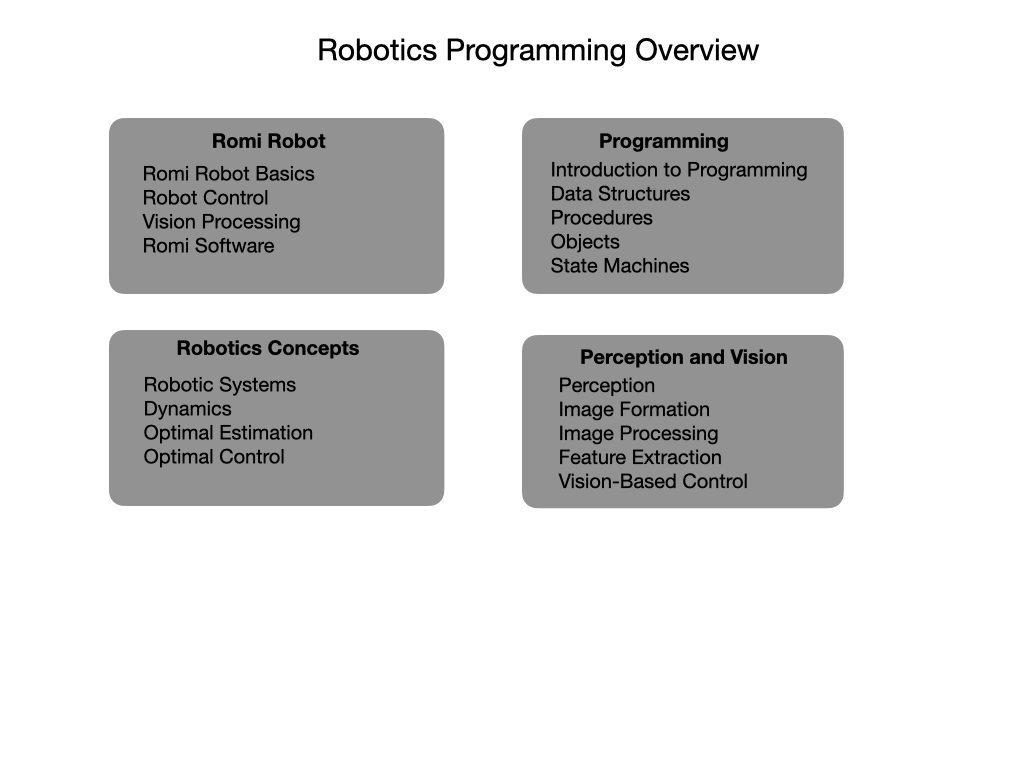
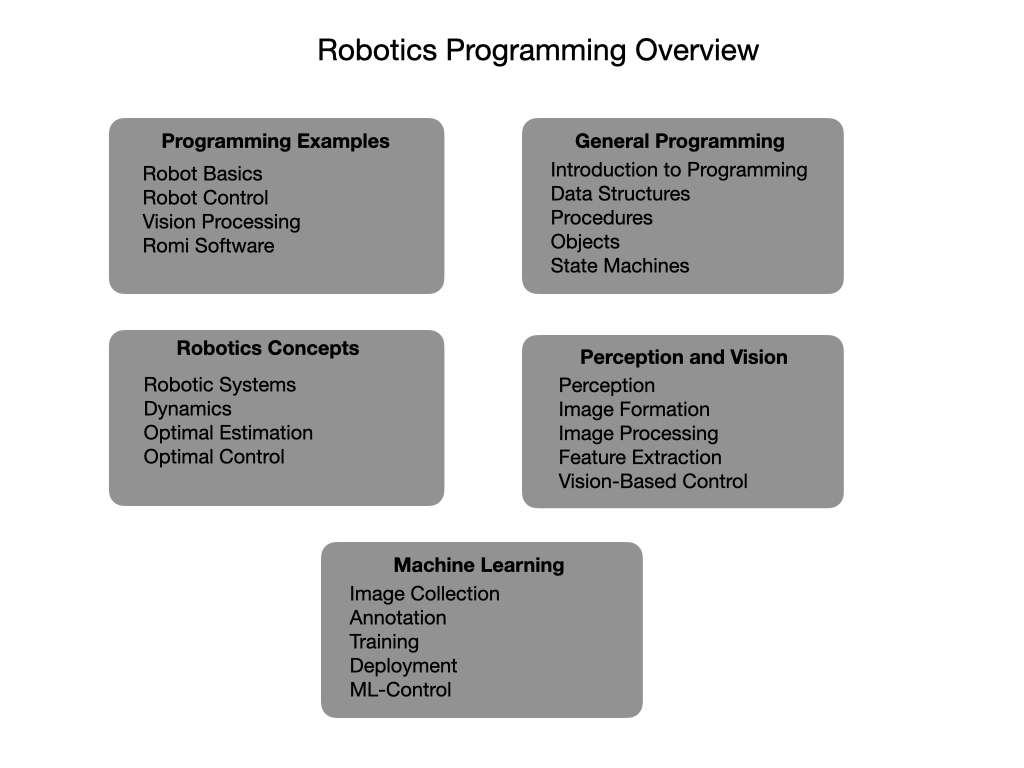
Added Machine Learning template

Changed region(s): [[0.3125, 0.6875, 0.625, 0.9375], [0.1562, 0.1562, 0.375, 0.25], [0.5625, 0.1562, 0.7812, 0.2188]]

diff --git a/docs/Romi/SC/romiCommands.md b/docs/Romi/SC/romiCommands.md
@@ -75,6 +75,37 @@ The `setDefaultCommand()` method sets the default Command of the subsystem. The 
 
     m_drivetrain.setDefaultCommand(getArcadeDriveCommand());
 
+## Command Groups
+Simple commands can be composed into [Command Groups](https://docs.wpilib.org/en/latest/docs/software/commandbased/command-groups.html) to accomplish more-complicated tasks. There are several ways in which Command Groups can be composed, as shown the documentation.  We'll look at a full example of a **Sequential** Command Group from the Romi sample code.
+
+### The AutonomousDistance Command
+The **AutonomousDistance** command is used to drive forward, turn 180 degrees, drive back, and turn another 180 degrees, hopefully ending up exactly where we started.  That's four commands executed one after another and is a prime candidate for a **SequentialCommandGroup**.
+We'll be using the **Drivetrain** subsystem in this command so that needs to be imported together with the SequentialCommandGroup library.
+
+The four commands are composed in the class constructor using the `addCommands()` method.  The four command are specified using just two procedures since these procedures were parameterized.  The commands are listed in the order in which we would like them to run.
+
+    package frc.robot.commands;
+    import frc.robot.subsystems.Drivetrain;
+    import edu.wpi.first.wpilibj2.command.SequentialCommandGroup;
+
+    public class AutonomousDistance extends SequentialCommandGroup {
+      /**
+      * Creates a new Autonomous Drive based on distance. This will drive out for a specified distance,
+      * turn around and drive back.
+      *
+      * @param drivetrain The drivetrain subsystem on which this command will run
+      */
+      public AutonomousDistance(Drivetrain drivetrain) {
+        addCommands(
+            new DriveDistance(-0.5, 10, drivetrain),
+            new TurnDegrees(-0.5, 180, drivetrain),
+            new DriveDistance(-0.5, 10, drivetrain),
+            new TurnDegrees(0.5, 180, drivetrain));
+      }
+    }
+
+### Change Motor Direction
+We'd like our Romi going in a different direction from that specified in the *romiReference* example.  So switch the first `DriveDistance()` parameter from -0.5 to 0.5.
 
 ## Viewing the Robot Pose
 As the robot drives around it might be useful to view its position and orientation on in the Simulator.  We looked at that module previously so you ready're to go onto the [Pose Estimation](../../Concepts/OptimalEstimation/poseEstimation.md) module.  There are a couple of classes that need to be implemented to do this so review that module next.
@@ -126,11 +157,14 @@ Update the *ArcadeDrive* command to use the new `rateLimitedArcadeDrive()` metho
         m_drivetrain.rateLimitedArcadeDrive(m_xaxisSpeedSupplier.get(), m_zaxisRotateSupplier.get());
     }
 
+
 ## References
 
 - FRC Documentation - [Command Based Programming](https://docs.wpilib.org/en/latest/docs/software/commandbased/index.html)
 
 - FRC Documentation - [The Command Scheduler](https://docs.wpilib.org/en/latest/docs/software/commandbased/command-scheduler.html)
+
+- FRC Documentation - [Command Groups](https://docs.wpilib.org/en/latest/docs/software/commandbased/command-groups.html)
 
 - [Amazon Example](https://s3.amazonaws.com/screensteps_live/exported/Wpilib/2078/2286/Command_based_programming.pdf?1478686718)
 

diff --git a/docs/Romi/Vision/romiBasicVision.md b/docs/Romi/Vision/romiBasicVision.md
@@ -46,7 +46,7 @@ Explain how the program works...It makes use of the [Camera Server](https://docs
 ## <a name="upload"></a>Upload Python Program
 You can't run the camera server code on your laptop since it's not currently supported.  You have to upload it to the Raspberry Pi to test it. In a terminal (Powershell):
 
-1. `cd ~/Documents/romi-examples/BasicVision/Vision`.  If you opened up a terminal from VSCode then you should only need to `cd Vision`.
+1. `cd ~/Documents/RomiExamples/BasicVision/Vision`.  If you opened up a terminal from VSCode then you should only need to `cd Vision`.
 2. The python program has multiple files so you need to upload them all.  This is done with a zip file.  Run `python build.py` to build the zip file.  Depending on how Python is installed you may have to type `python3`.  The zip file will be called `wpilib.tar.gz`.
 3. On the Romi WPILibPi.local webpage. Go to **Application**.
 4. Put Raspberry Pi file system into *Writable* mode.
@@ -76,7 +76,7 @@ Note: Shuffleboard uses the Network Tables to display the camera data so your ja
 An alternative way to view the overlayed camera stream is to bring it up in a browser.  The URL is `wpilibpi.local:1182/stream.mjpg`.  The port of the original stream is *1181*.
 
 ## Notes on Restarting the Romi
-When you first turn the Romi it will restart with the program that you last uploaded.  So if that's what you require then there's no action neccesary. Dispite this, the **Vision Application Configuration** panel will default to the *Custom* application, even though the *Custom* application is not running. 
+When you first turn the Romi it will restart with the program that you last uploaded.  So if that's what you require then there's no action neccesary. Despite this, the **Vision Application Configuration** panel will default to the *Custom* application, even though the *Custom* application is not running. 
 
 If you've switched the application to **Built-in multi-camera streaming** then you will have to upload your python program again, since it will try to call `uploaded.py` instead of your `multiCameraServer.py` program. The the `runCamera` file keeps getting overwritten so you cannot just upload a new `multiCameraServer.py` file from the **Vision Application Configuration** panel.  You have to upload your tar file from the **File Upload** panel.
 

diff --git a/docs/MachineLearning/MLIndex.md b/docs/MachineLearning/MLIndex.md
@@ -1,0 +1,22 @@
+# Introduction to Machine Learning
+**Machine Learning** is a powerful tool that can accomplish computational tasks that traditional algorithms cannot. In the FIRST Robotics Competition, machine learning can be used to detect game pieces, scoring locations, or even other robots.  For a good overview of Machine Learning see Brendan Fortuner's [Machine Learning Glossary](https://ml-cheatsheet.readthedocs.io/en/latest/nn_concepts.html).  Also see an [Introduction to Machine Learning](https://docs.wpilib.org/en/stable/docs/software/wpilib-tools/axon/machine-learning.html) in the FRC Documentation. 
+
+In order to implement Machine Learning we'll generally follow a process of collecting images, annotating the images, training a model, deploying the trained model on the robot, and finally using the trained model to control the robot.  This is an iterative process that will be continued until we have a satisfactory outcome.  
+![Machine Learning Process](../images/FRCMachineLearning/FRCMachineLearning.001.jpeg)
+
+There are multiple ways to carry out this process.  FRC has a tool called **Axon** that implements the training, testing, and exporting of the machine learning model.  See an [Introduction to Axon](https://docs.wpilib.org/en/stable/docs/software/wpilib-tools/axon/introduction.html) in the FRC Documentation.  Other processes are used to Annotate the images. Various options to carry out this process are detailed in the following sections.
+
+- [Image Collection](MLImageCollection.md)
+- [Annotating Images](MLAnnotation.md)
+- [Training the Model](MLTraining.md)
+- [Deployment](MLDeployment.md)
+- [Machine Learning Based Control](MLControl.md)
+
+## References
+- FRC Documentation - [Axon](https://docs.wpilib.org/en/stable/docs/software/wpilib-tools/axon/introduction.html)
+
+- Brendan Fortuner [ML Glossary](https://ml-cheatsheet.readthedocs.io/en/latest/nn_concepts.html)
+
+- Jeremy Howard, Sylvain Gugger - [Practical Deep Learning for Coders](https://course.fast.ai/)
+
+- Deep Learning - [Video Playlist](https://www.youtube.com/playlist?list=PLZbbT5o_s2xq7LwI2y8_QtvuXZedL6tQU) - deeplizard

diff --git a/docs/MachineLearning/IntroMachineLearning.md b/docs/MachineLearning/IntroMachineLearning.md
@@ -1,9 +1,9 @@
 # Introduction to Machine Learning and Neural Networks
 
-## Essential Math
+ 
+Good resource [ML Overview](https://ml-cheatsheet.readthedocs.io/en/latest/nn_concepts.html)
 
 
-## Machine Learning
 
 MIT Press book **Machine Learning Basics** [Chapter 4](https://www.deeplearningbook.org/contents/ml.html)
 
@@ -27,6 +27,8 @@ Neural Networks and Deep Learning book [Chapter 2](http://neuralnetworksanddeepl
 ## References
 - FRC Documentation - [Axon](https://docs.wpilib.org/en/stable/docs/software/wpilib-tools/axon/introduction.html)
 
+- Jeremy Howard, Sylvain Gugger - [Practical Deep Learning for Coders](https://course.fast.ai/)
+
 - Deep Learning - [Video Playlist](https://www.youtube.com/playlist?list=PLZbbT5o_s2xq7LwI2y8_QtvuXZedL6tQU) - deeplizard
 
 - Neural Networks and Deep Learning - [Free Online Book](http://neuralnetworksanddeeplearning.com/index.html)
@@ -36,3 +38,5 @@ Neural Networks and Deep Learning book [Chapter 2](http://neuralnetworksanddeepl
 - James, Witten, Hastie, Tibshirani [An Introduction to Statistics Learning](https://www.statlearning.com)
 
 - An Introduction to Statistics Learning [YouTube Playlist](https://www.youtube.com/playlist?list=PLOg0ngHtcqbPTlZzRHA2ocQZqB1D_qZ5V)
+
+- [ML Overview](https://ml-cheatsheet.readthedocs.io/en/latest/nn_concepts.html)

diff --git a/docs/MachineLearning/MachineLearningNotes.md b/docs/MachineLearning/MachineLearningNotes.md
@@ -1,0 +1,6 @@
+# Notes
+
+## Train Models on Macbook
+Models can be transferred from the Jetson and trained on Macbook using Pytorch or Tensorflow.  Pytorch does not currently utilize the GPU on the M1 processor.  Comment out any statements that transfer the model to the GPU if using Pytorch.  Training is still a little faster on the M1 Macbook's CPU than on the Jetson's GPU.
+
+You can transfer between notebooks by right click download, and then use the upload button to upload it to the target notebook.

diff --git a/docs/Romi/Control/romiPID.md b/docs/Romi/Control/romiPID.md
@@ -218,3 +218,5 @@ We have already setup the getHeading() method in the [Subsystems](romiSubsystems
 - Code Example - [BasicPID](https://github.com/mjwhite8119/romi-examples/tree/main/BasicPID)
 
 - FRC Programming Done Right -[PID Control](https://frc-pdr.readthedocs.io/en/latest/control/pid_control.html)
+
+- TexasRobots - [Motion Magic Video](https://www.youtube.com/watch?v=xlQW8vGJWEs&ab_channel=texasRobots)

diff --git a/docs/MachineLearning/MLControl.md b/docs/MachineLearning/MLControl.md
@@ -1,0 +1,3 @@
+# Machine Learning-Based Control
+
+## References

diff --git a/docs/MachineLearning/MLDeployment.md b/docs/MachineLearning/MLDeployment.md
@@ -1,0 +1,3 @@
+# Deploying the Model
+
+## References

diff --git a/docs/MachineLearning/MLAnnotation.md b/docs/MachineLearning/MLAnnotation.md
@@ -1,0 +1,3 @@
+# Annotating Images
+
+## References

diff --git a/docs/MachineLearning/MLImageCollection.md b/docs/MachineLearning/MLImageCollection.md
@@ -1,0 +1,3 @@
+# Image Collection
+
+## References

diff --git a/docs/MachineLearning/MLTraining.md b/docs/MachineLearning/MLTraining.md
@@ -1,0 +1,3 @@
+# Training a Model
+
+## References
